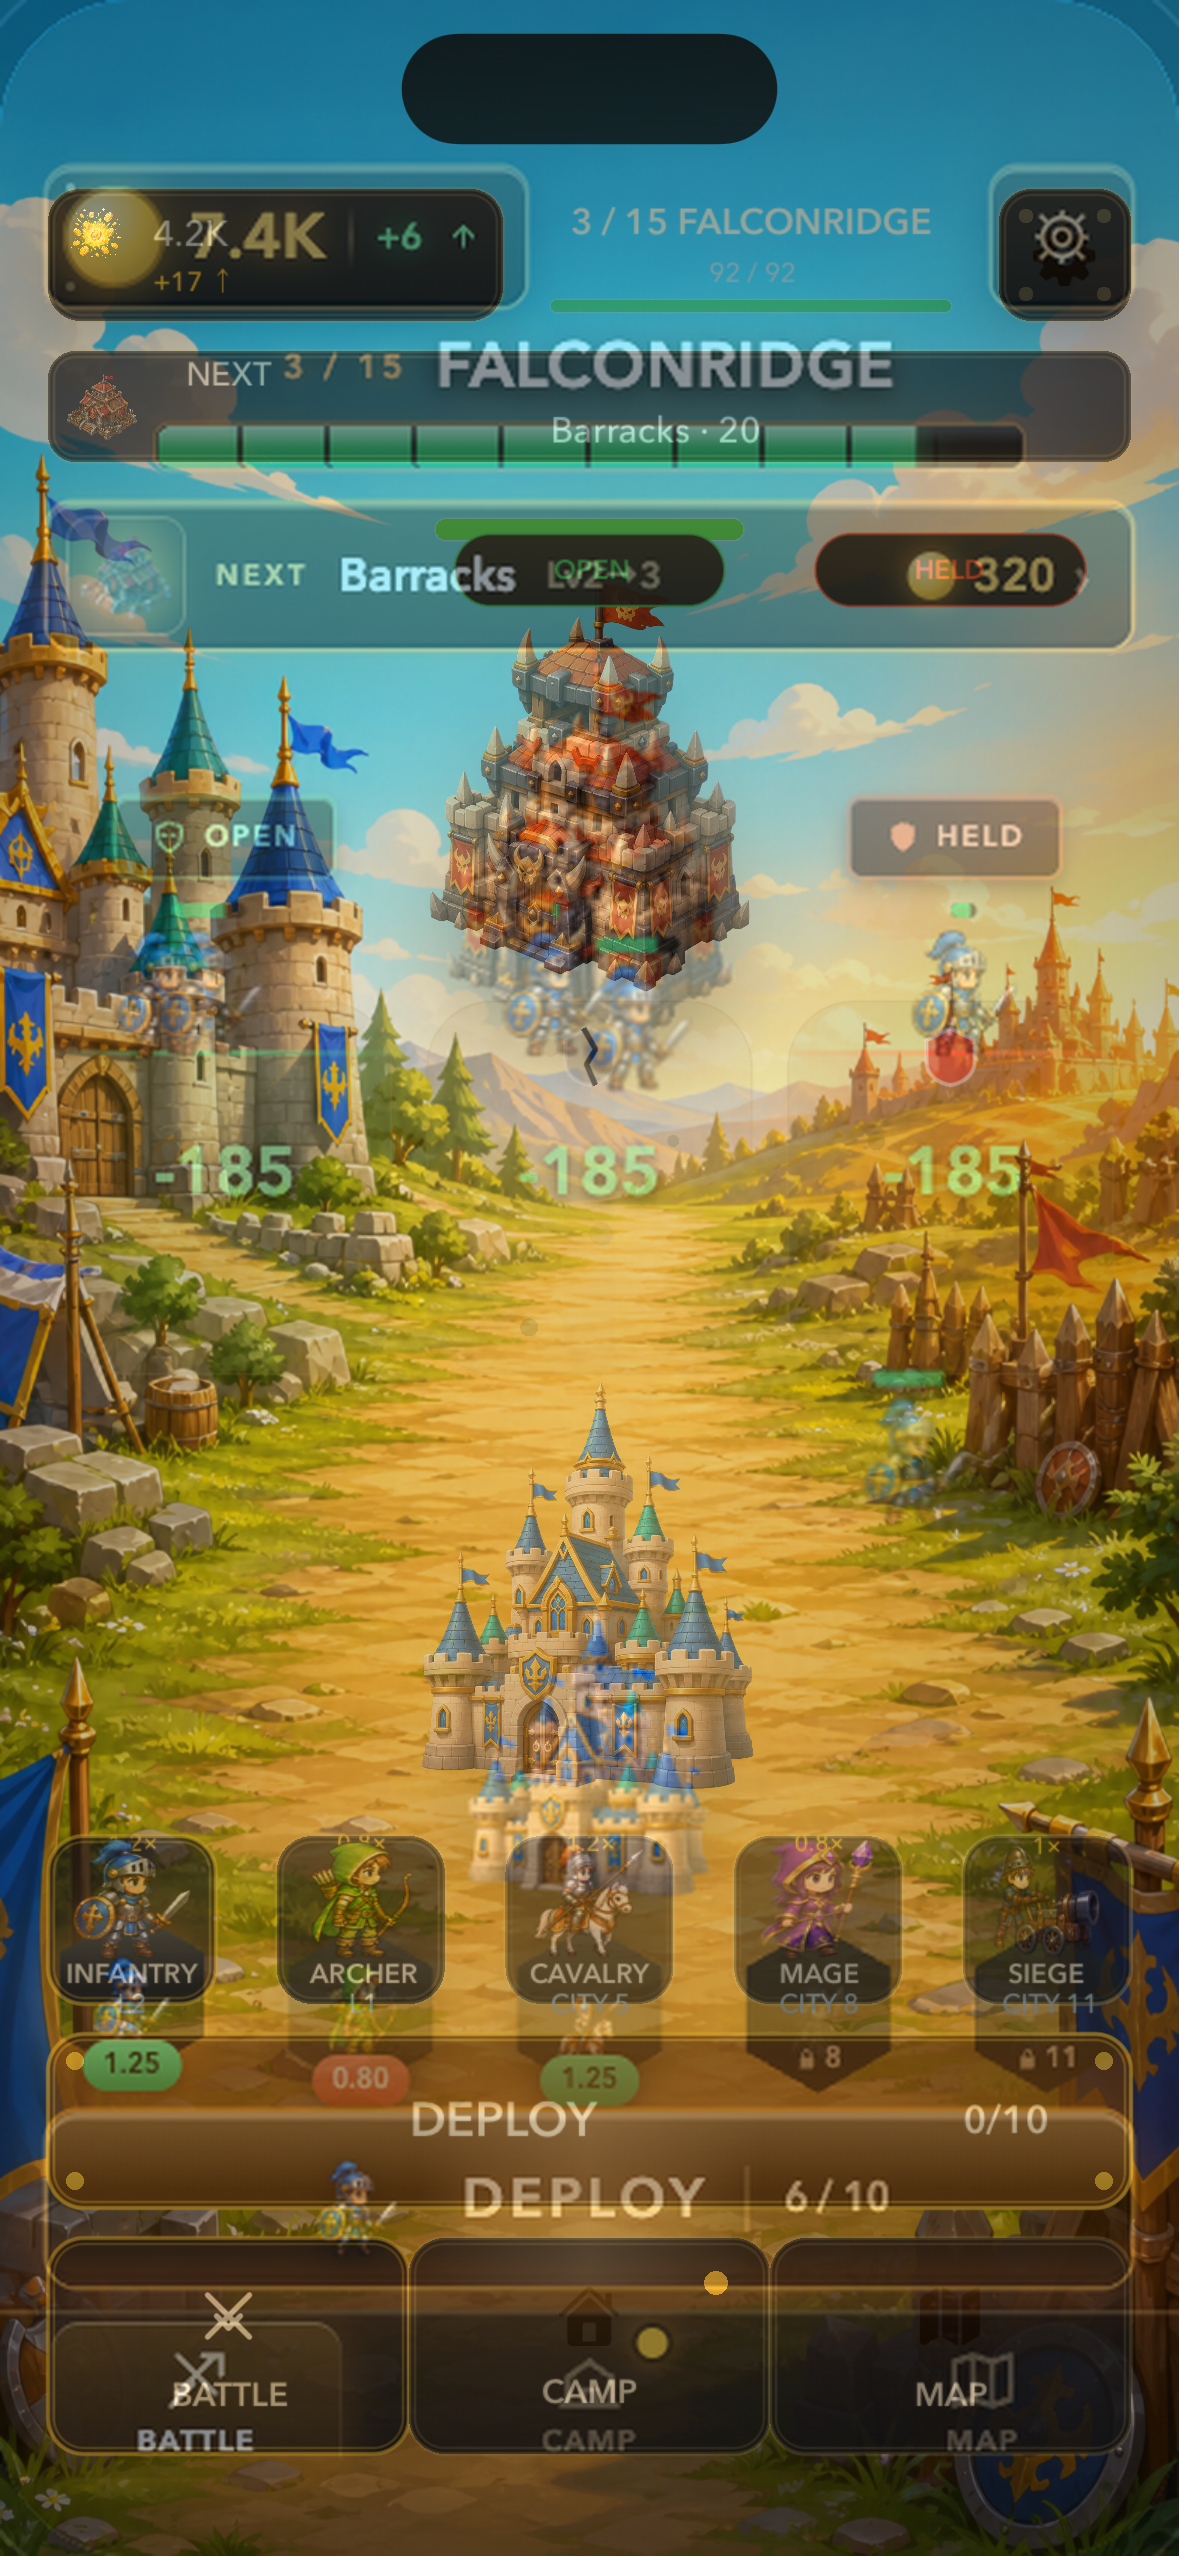
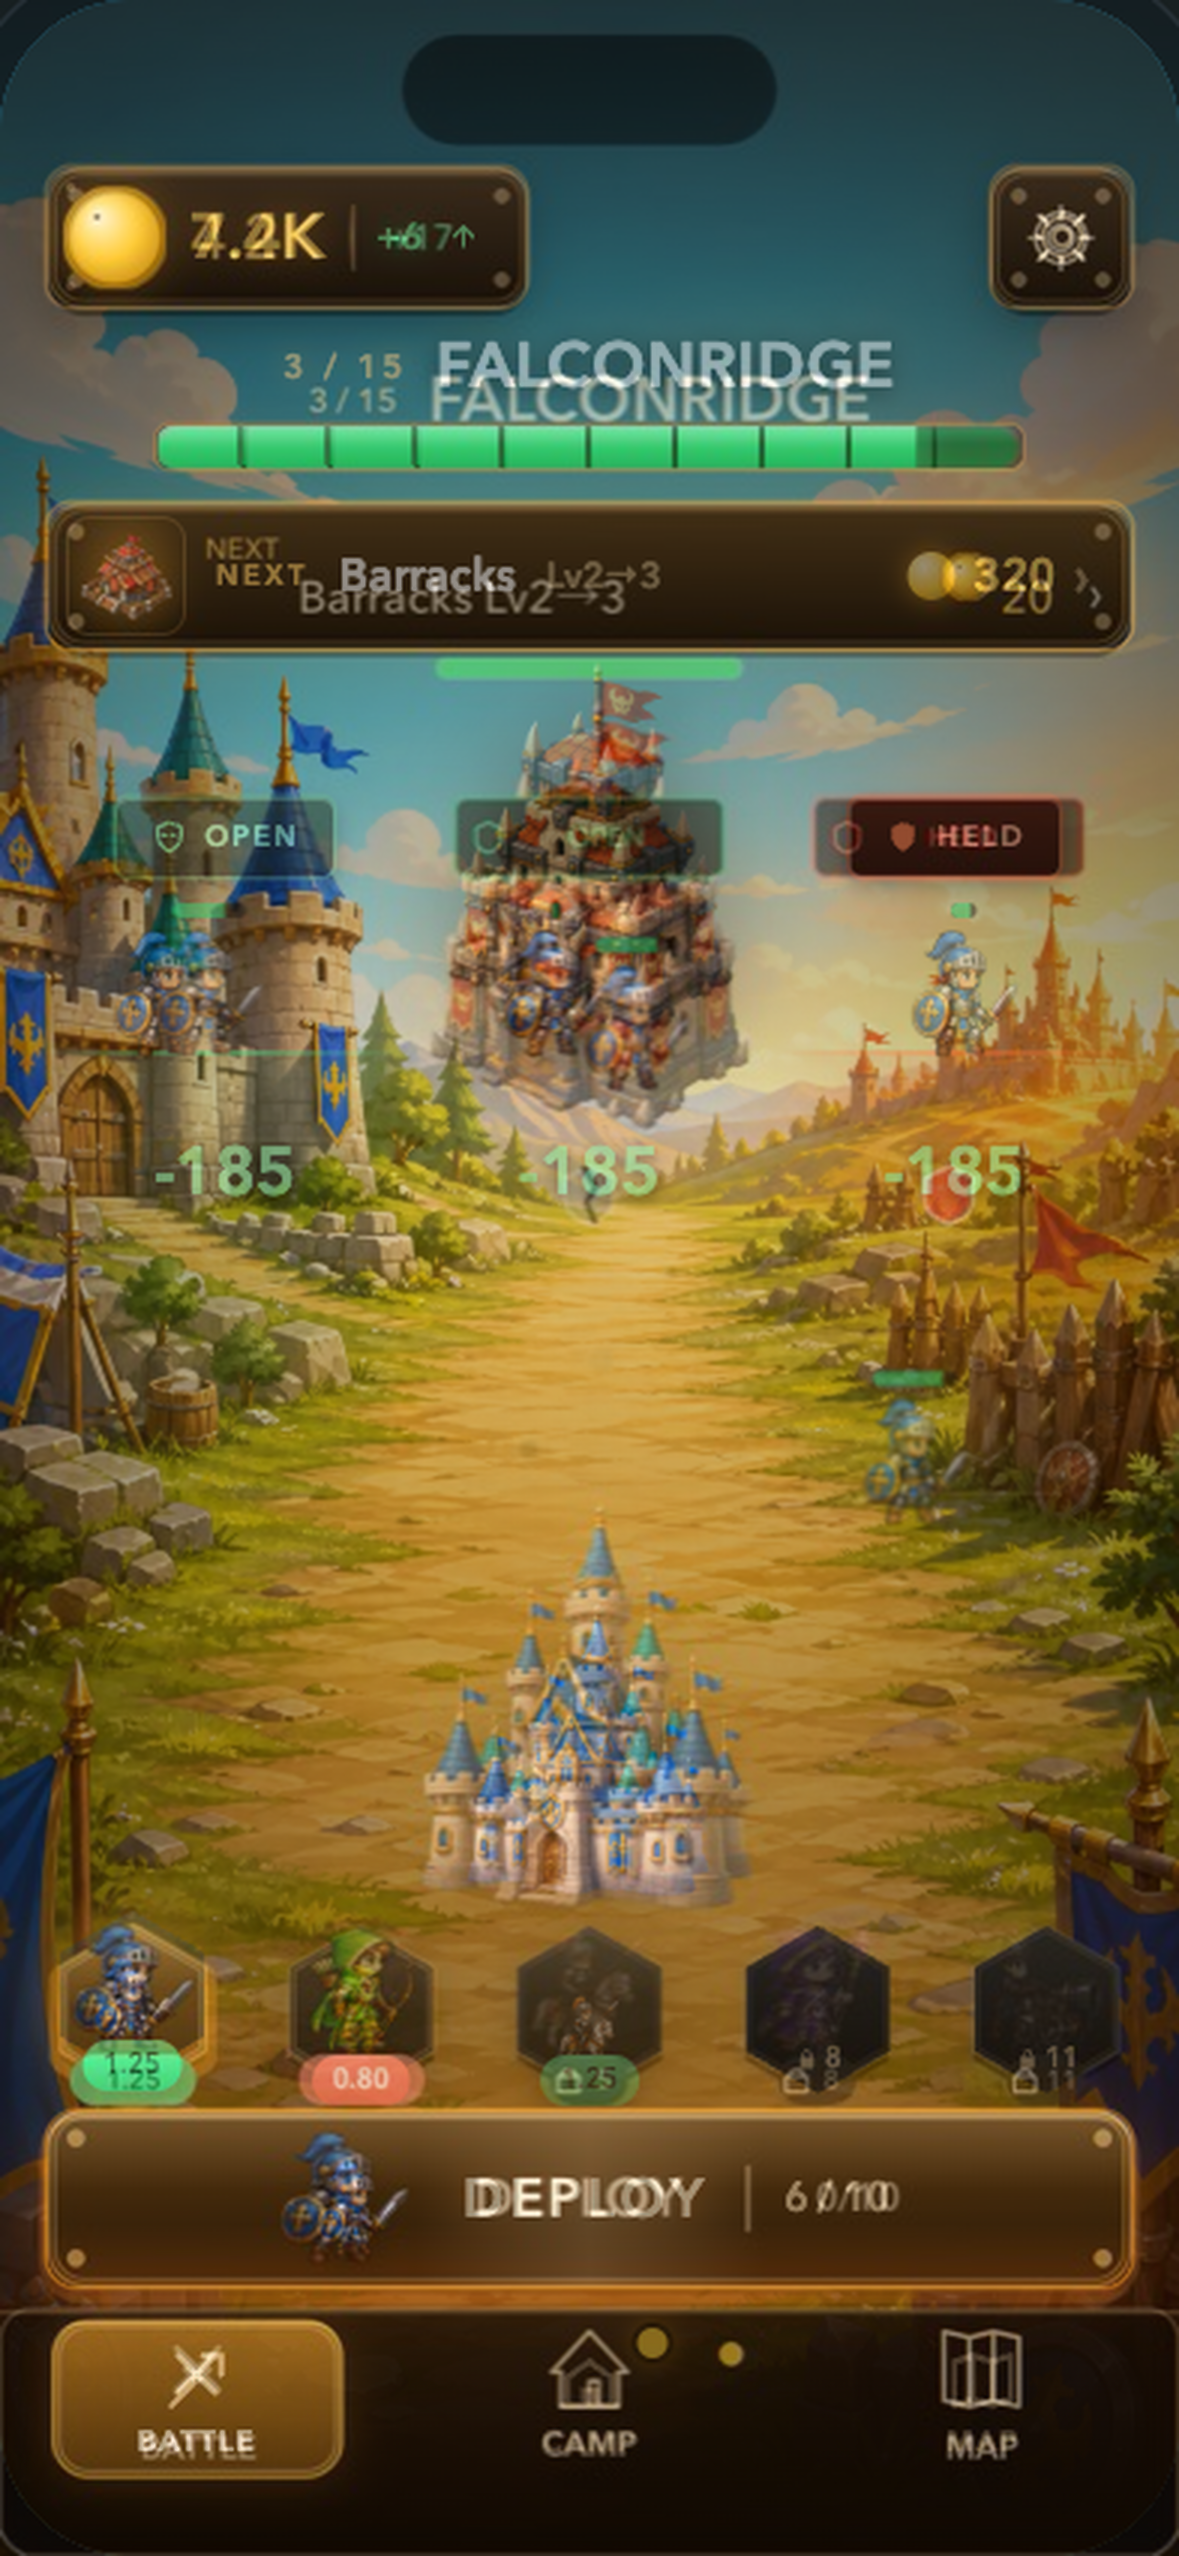
docs: add final Battle parity evidence

diff --git a/docs/visual-parity/forged-ui/README.md b/docs/visual-parity/forged-ui/README.md
@@ -16,11 +16,11 @@ The exact five source PNGs above must be present in this directory before runtim
 
 ## Task 10 parity board
 
-Every minimum state has the canonical mock, a native simulator capture, a deterministic 50% overlay, and a deliberate-discrepancy note. The board's native files are direct `simctl io screenshot` framebuffer captures; they are not resized or cropped. The same serial UI smoke also retains XCTest screenshot attachments for test provenance. XCUITest reports its app image as 1178×2556, while the direct simulator framebuffer is 1179×2556 at 3×, which is the same logical 393×852 iPhone 15 Pro viewport.
+Every minimum state has the canonical mock, a simulator capture, a deterministic 50% overlay, and a deliberate-discrepancy note. Except for the round-5 Battle-normal transport artifact documented below, the board's native files are direct `simctl io screenshot` framebuffer captures and are not resized or cropped. The same serial UI smoke also retains XCTest screenshot attachments for test provenance. XCUITest reports its app image as 1178×2556, while the direct simulator framebuffer is 1179×2556 at 3×, which is the same logical 393×852 iPhone 15 Pro viewport.
 
 | Minimum state | Canonical | Native capture | 50% overlay | Deliberate discrepancy |
 | --- | --- | --- | --- | --- |
-| Battle normal | `battle.png` | `native/battle-normal-393x852@3x.png` | `overlays/battle-normal-50-overlay.png` | Frozen live combat keeps the authored HUD and lane geometry stable; soldier positions, counters, and terrain details are runtime state rather than mock pixels. |
+| Battle normal | `battle.png` | `native/battle-normal-393x852@3x.png` | `overlays/battle-normal-50-overlay.png` | The exact 393×852 fixture reads 4.2K / 20 / 0 soldiers while the prototype reads 7.4K / 320 / 6; active units and damage are deliberately runtime state, while layout/style bands are the comparison target. |
 | Battle blocked | `battle.png` | `native/battle-blocked-393x852@3x.png` | `overlays/battle-blocked-50-overlay.png` | The blocked fixture keeps the same shipping battle chrome while the action is disabled by the live-soldier rule; the mock does not encode that gameplay gate. |
 | Camp empty | `camp.png` | `native/camp-empty-393x852@3x.png` | `overlays/camp-empty-50-overlay.png` | The deterministic empty fixture mounts the five-option builder and selects slot 1 through the DEBUG scene seam (`selectedSlot=1; mode=builder`); the mock is a scenic reference and does not prescribe persisted prices or unlock copy. |
 | Camp occupied | `camp.png` | `native/camp-occupied-393x852@3x.png` | `overlays/camp-occupied-50-overlay.png` | The deterministic occupied fixture mounts the inspector on slot 1 (`selectedSlot=1; mode=inspector`); existing buildings and authored levels intentionally differ from the generic mock. |
@@ -36,6 +36,12 @@ Every minimum state has the canonical mock, a native simulator capture, a determ
 - Device: `Pyxis-Parity-393x852` (`iPhone 15 Pro`, type `com.apple.CoreSimulator.SimDeviceType.iPhone-15-Pro`)
 - Runtime: iOS 26.5 (`23F77`); UDID `771133AB-2A09-4C6E-85FD-9D7523E8D2C7`
 - Native framebuffer: 1179×2556 pixels, 3×, logical 393×852 points (`simctl io screenshot`, no resampling)
+- Round-5 Battle-normal capture: captured on the exact logical 393×852
+  `Pyxis-Parity-393x852` simulator; XcodeBuildMCP returned an optimized JPEG at
+  369×800 pixels.
+- Round-5 Battle-normal board artifact: the current transport content was
+  resampled with Lanczos to the established 1179×2556 `@3x` board dimension;
+  it is for visual parity only, not sharpness measurement.
 - XCTest attachment note: XCUITest's `XCUIScreenshot` export is 1178×2556 on this runner; those files remain in the result bundle and are not mislabeled as the board's native captures.
 - Dedicated result bundle: `test_sim_2026-08-30T23-42-46-973Z_pid19570_369eddfd.xcresult`
 - Smoke test: `PyxisUITests/testForgedFixtureParitySmoke393x852`, serial, 1 passed / 0 failed on this device
@@ -58,3 +64,9 @@ selection and Conquest report semantics were checked from the same
 DEBUG-derived probe used by the UI smoke.
 
 The Map implementation deliberately uses a computed 164pt card, not the taller presentation mock card. At 393pt width, the 164pt card leaves the authored 44pt node interactions and the required route spacing/headroom viable; this is a deliberate geometry-contract difference, not a capture defect. The overlays are evidence for human review only; there is no pixel-diff CI assertion.
+
+Round-5 Battle-normal comparison keeps both inputs at the same logical
+393×852 fixture: the current runtime is 369×800 optimized transport content,
+and the prototype's 7.4K / 320 / 6-soldier state is not expected to match the
+runtime's 4.2K / 20 / 0 state. Active units and damage are therefore excluded
+from the parity judgment; the layout and style bands remain the target.

diff --git a/.superpowers/sdd/2026-08-29-forged-gameplay-ui-redesign-implementation/task-11-report.md b/.superpowers/sdd/2026-08-29-forged-gameplay-ui-redesign-implementation/task-11-report.md
@@ -284,3 +284,43 @@ seven changed source/test files exited 0 with no warnings, and `git diff
 --check` exited 0. No screenshot or pixel-capture command was executed.
 
 Status: DONE pending controller-owned decisive visual capture.
+
+## Fix round 5/5: Battle-normal runtime evidence package
+
+No source or test code changed in this round. The exact current runtime capture
+was supplied by the `Pyxis-Parity-393x852` simulator at commit `4700f3e`:
+
+```text
+/var/folders/_k/lkrpcd8516s5x5szmkq1mbvc0000gn/T/screenshot_optimized_0944417b-f967-4425-ad1c-98c398ebcdba.jpg
+```
+
+The XcodeBuildMCP screenshot transport is an optimized 369×800 JPEG for the
+exact logical 393×852 fixture. The archived `@3x` board artifact is therefore
+resampled content, not recovered framebuffer detail.
+
+Exact artifact commands:
+
+```text
+ffmpeg -hide_banner -loglevel error -y -i /var/folders/_k/lkrpcd8516s5x5szmkq1mbvc0000gn/T/screenshot_optimized_0944417b-f967-4425-ad1c-98c398ebcdba.jpg -vf "scale=1179:2556:flags=lanczos,format=rgba" -frames:v 1 docs/visual-parity/forged-ui/native/battle-normal-393x852@3x.png
+
+ffmpeg -hide_banner -loglevel error -y -i docs/visual-parity/forged-ui/battle.png -i docs/visual-parity/forged-ui/native/battle-normal-393x852@3x.png -filter_complex "[0:v]scale=1179:2556:flags=lanczos,format=rgba[canonical];[1:v]format=rgba[runtime];[canonical][runtime]blend=all_mode=average,format=rgb24[overlay]" -map "[overlay]" -frames:v 1 docs/visual-parity/forged-ui/overlays/battle-normal-50-overlay.png
+
+ffmpeg -hide_banner -loglevel error -y -i docs/visual-parity/forged-ui/battle.png -i /var/folders/_k/lkrpcd8516s5x5szmkq1mbvc0000gn/T/screenshot_optimized_0944417b-f967-4425-ad1c-98c398ebcdba.jpg -filter_complex "[0:v]scale=369:800:flags=lanczos,format=rgb24[canonical];[1:v]scale=369:800:flags=lanczos,format=rgb24[runtime];[canonical][runtime]hstack=inputs=2,format=rgb24[side]" -map "[side]" -frames:v 1 docs/visual-parity/forged-ui/battle-style-side-by-side.png
+```
+
+Inspection with `file` and `sips -g pixelWidth -g pixelHeight` confirmed the
+native and overlay artifacts are 1179×2556 PNGs and the side-by-side is a
+738×800 PNG containing canonical-left/runtime-right 369×800 halves. Visual
+inspection confirmed the deliberate state/content difference: runtime is
+4.2K / 20 / 0 soldiers versus prototype 7.4K / 320 / 6 with active units and
+damage; layout/style bands are the comparison target. `git diff --check`
+exited 0. No image generation, source/test edits, or test runs were performed.
+
+Evidence paths:
+
+```text
+docs/visual-parity/forged-ui/native/battle-normal-393x852@3x.png
+docs/visual-parity/forged-ui/overlays/battle-normal-50-overlay.png
+docs/visual-parity/forged-ui/battle-style-side-by-side.png
+docs/visual-parity/forged-ui/README.md
+```
